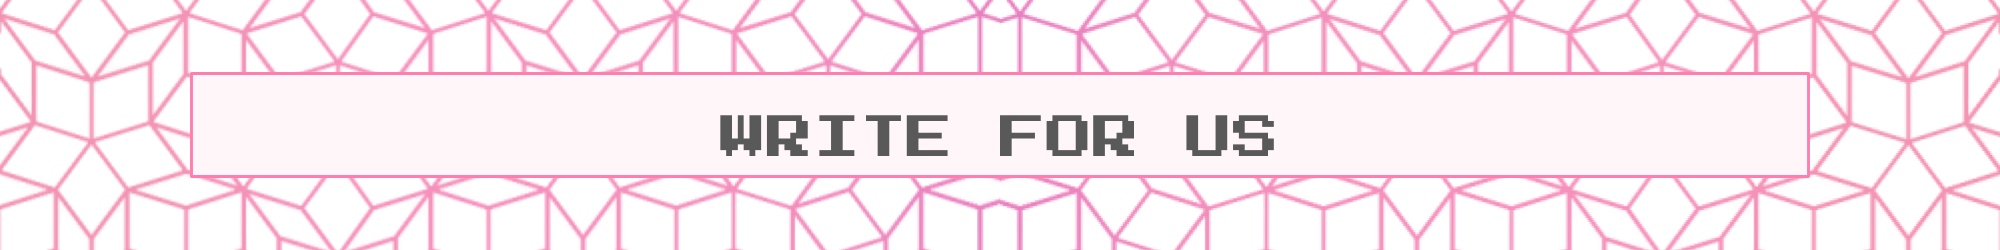
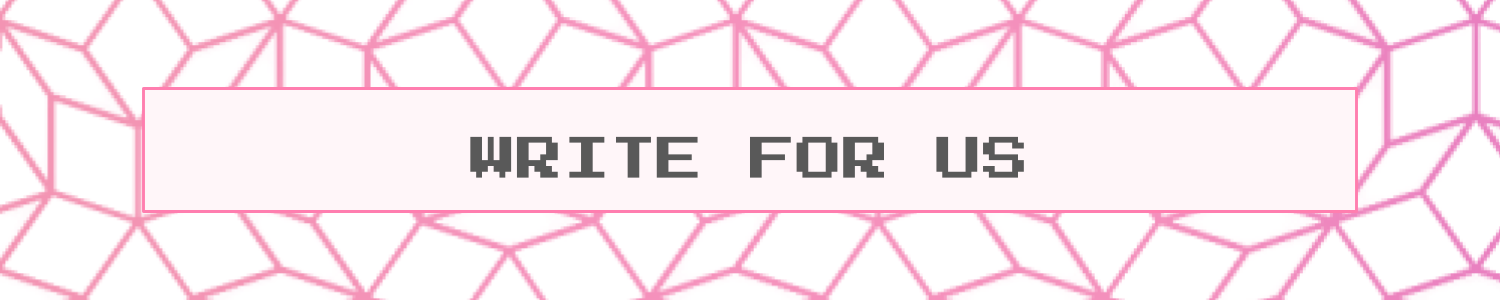
comitted

Changed region(s): [[0.0, 0.0, 1.0, 1.0], [0.3067, 0.448, 0.7053, 0.644]]

diff --git a/writeforus.html b/writeforus.html
@@ -52,15 +52,18 @@
   </div>
   </div>
 
-    <div class="banner">
-      <img src="assets/banner.jpeg" alt="Banner" class="Bannerimage"
-    </div>
-
     <div class="contentcontainer">
       <div class="writetext">
-        <h2>The Penrose Magazine Article Competition</h2>
-        <p>Theme: Intersection of AI</p>
+
+        <div class="centertext">
+        <h1>The Penrose Magazine Article Competition</h1>
+        <p>Write for our first ever article competition</p>
+        <br>
+        <h2>Theme: Intersection of AI</h2>
         <p>This theme can be interpereted however you like as long as your article touches on the intersection of AI and another STEM field.</p>
+        <br>
+        <br>
+        </div>
 
         <div class = "widthboxes">
           <h2>Article Requirements</h2>
@@ -185,7 +188,7 @@
 
         </div>
         <h2>How To Apply</h2>
-        <p>Application forms are not yet open, however filling out this interest form will notify you when applications open.</p>
+        <p>Fill out this form to be kept up to date with competition details.</p>
         <div class="contentcontainer">
           <iframe src="https://tally.so/r/w5PL06" frameborder="0" allowfullscreen></iframe>
         </div>
@@ -205,7 +208,7 @@
 
     </div>
 
-    <br><br><br><br><br><br><br><br><br><br><br><br><br><br><br><br><br><br><br><br><br><br><br>
+    <br><br><br><br><br><br><br><br><br>
 
     <div class = "links">
 
@@ -246,6 +249,7 @@
     <div class="centertext">
       <p>CIO Charity: 1214534</p>
       <p>© 2025 Penrose Magazine. All rights reserved.</p>
+      <br>
     </div>
 
   </body>

diff --git a/published.html b/published.html
@@ -53,10 +53,6 @@
   
   <body>
 
-    <div class="banner">
-      <img src="assets/banner.jpeg" alt="Banner" class="Bannerimage"
-    </div>
-
     <div class = "content">
       <h1>Published Issues</h1>
     </div>
@@ -157,6 +153,7 @@
     <div class="centertext">
       <p>CIO Charity: 1214534</p>
       <p>© 2025 Penrose Magazine. All rights reserved.</p>
+      <br>
     </div>
     
     

diff --git a/Team.html b/Team.html
@@ -50,10 +50,6 @@
   </div>
   <body>
 
-    <div class="banner">
-      <img src="assets/banner.jpeg" alt="Banner" class="Bannerimage"
-    </div>
-
       <div class = "centertext">
         <h1>Our Team</h1>
         <br>
@@ -354,6 +350,7 @@
     <div class="centertext">
       <p>CIO Charity: 1214534</p>
       <p>© 2025 Penrose Magazine. All rights reserved.</p>
+      <br>
     </div>
 
 

diff --git a/FAQ.html b/FAQ.html
@@ -52,10 +52,6 @@
   </div>
   </div>
 
-    <div class="banner">
-      <img src="assets/banner.jpeg" alt="Banner" class="Bannerimage"
-    </div>
-
     <div class = "content">
       <h1>FAQ & Ambassador</h1>
 
@@ -156,6 +152,7 @@
     <div class="centertext">
       <p>CIO Charity: 1214534</p>
       <p>© 2025 Penrose Magazine. All rights reserved.</p>
+      <br>
     </div>
     
 

diff --git a/index.html b/index.html
@@ -148,6 +148,7 @@
     <div class="centertext">
       <p>CIO Charity: 1214534</p>
       <p>© 2025 Penrose Magazine. All rights reserved.</p>
+      <br>
     </div>
 
   </body>
